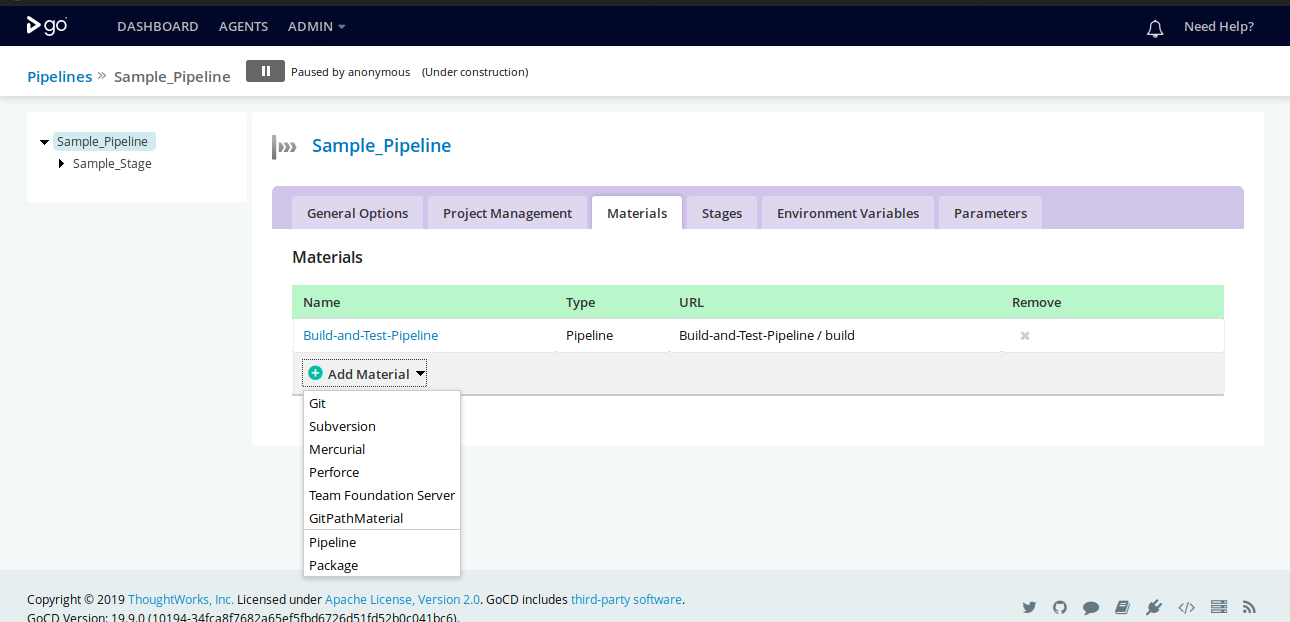
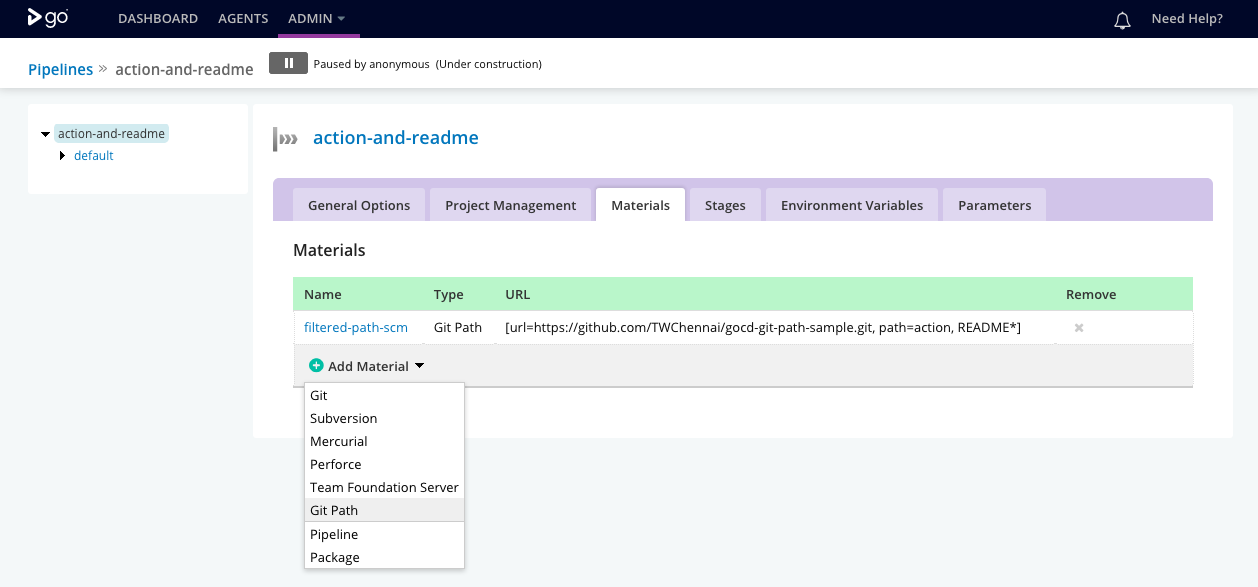
Update `README` to reflect updates to plugin

diff --git a/README.md b/README.md
@@ -1,43 +1,122 @@
 # gocd-git-path-material-plugin
 
-GoCD plugin to introduce a material, that watches on a sub-directory of git repository a.k.a GoCD plugin to support for [Monorepos](https://developer.atlassian.com/blog/2015/10/monorepos-in-git/)
+[![Build Status](https://travis-ci.org/TWChennai/gocd-git-path-material-plugin.svg?branch=master)](https://travis-ci.org/TWChennai/gocd-git-path-material-plugin) ![License](https://img.shields.io/github/license/TWChennai/gocd-git-path-material-plugin)
 
-[![Build Status](https://travis-ci.org/TWChennai/gocd-git-path-material-plugin.svg?branch=master)](https://travis-ci.org/TWChennai/gocd-git-path-material-plugin)
+GoCD plugin to introduce a material that watches on a sub-directory of a Git repository.
+ 
+This is the missing GoCD support for [mono-repos](https://developer.atlassian.com/blog/2015/10/monorepos-in-git/)
 
-![gocd-git-path-material-plugin-add](docs/add-material.png)
+## What you can do with this plugin
+...that you can't do with the built-in Git material:
+* Support **mono-repos** without excessive triggering from a material that watches the entire repository
+* Implement **side-channels** into deployment pipelines for source-controlled environment configuration
+* Version control deployment configuration in the same repository as your code without rebuilding software every time
+  unrelated configuration is changed; supporting [twelve-factor](https://12factor.net/) apps
+* **Fix fan-in** - materials that monitor different paths in a repo are considered separate when [evaluating fan-in](https://docs.gocd.org/current/advanced_usage/fan_in.html) conditions
+* Provide **clean, filtered change logs** for pipeline/VSM comparisons showing only changes on the monitored paths within a repository
 
-![gocd-git-path-material-plugin-popup](docs/gitmaterial-popup.png)
+This plugin is intended as 
+* a **drop-in replacement** for the built-in GoCD Git material
+* replaces the problematic use of **whitelists** and **blacklists**
+  * whitelists and blacklists in GoCD tend to prevent/block fan-in because materials with different whitelists are still considered equivalent
+  by the fan-in algorithm. This makes them unsuitable for use as environment side-channels or dealing with mono-repos.
 
-### Installation
+### Advanced features
 
-* Download from [releases](https://github.com/chadlwilson/gocd-git-path-material-plugin/releases/)
+*Wildcard whitelists* - When the git command line is available on your agents; you can also use wildcards like `config/*/prod.yaml`. Anything that works with `git log` will work here.
+
+*Shallow clones* - supported in the same way as the GoCD Git Material supports them
+
+## Installation
+
+**Manually**
+* Download from [releases](https://github.com/TWChennai/gocd-git-path-material-plugin/releases/)
 * Follow the installation instructions [here](https://docs.go.cd/current/extension_points/plugin_user_guide.html#installing-and-uninstalling-of-plugins)
 
-### Usage
+**Dockerized GoCD automatic plugin install**
+* Find [release](https://github.com/TWChennai/gocd-git-path-material-plugin/releases/) URL
+* Set environment variable like the below; replacing `${VERSION}`
+    ```
+    GOCD_PLUGIN_INSTALL_gocd-git-path-material-plugin=https://github.com/TWChennai/gocd-git-path-material-plugin/releases/download/v${VERSION}/gocd-git-path-material-plugin-${VERSION}.jar
+    ```
 
-### Via UI
-
-**Known bug/feature:** After plugin installation, you will *not* be able to see *Git Path* material as a material type
-when creating a new pipeline. So add a dummy git material, then edit to add a new *Git Path* material and remove the old one. 
-
+## Usage
 
 ### Via pipelines-as-code
 
-For GoCD `>= 19.2.0` via pluggable materials configuration with [gocd-yaml-config-plugin](https://github.com/tomzo/gocd-yaml-config-plugin#pluggable)
+From GoCD `19.2.0` onwards you can use via pluggable material configuration with [gocd-yaml-config-plugin](https://github.com/tomzo/gocd-yaml-config-plugin#pluggable)
 ```yaml
 materials:
   path-filtered-material:
     plugin_configuration:
       id: git-path
     options:
-      url: https://github.com/chadlwilson/gocd-git-path-sample.git
+      url: https://github.com/TWChennai/gocd-git-path-sample.git
       username: username # optional
       path: path1, path2/subpath
       shallow_clone: false # optional
     destination: destDir
 ```
 
-You can see a sample [here](samples/sample-pipelines.gocd.yaml).
+### Via UI wizards
+
+Available from GoCD `19.8.0` onwards.
+
+![gocd-git-path-material-create-pipeline-wizard](docs/create-pipeline-wizard.png)
+
+![gocd-git-path-material-add-scm-1](docs/add-scm-1.png)
+![gocd-git-path-material-add-scm-2](docs/add-scm-2.png)
+
+### Via UI advanced configuration
+
+Available on all compatible versions of GoCD.
+
+![gocd-git-path-material-plugin-add](docs/add-material.png)
+
+![gocd-git-path-material-plugin-popup](docs/gitmaterial-popup.png)
+
+You can see a sample [here](https://github.com/TWChennai/gocd-git-path-sample/sample-pipelines.gocd.yaml).
+
+### Visualising changes
+
+VSM view
+![gocd-git-path-material-plugin-view-vsm](docs/view-vsm.png)
+
+View changes grouped by material
+![gocd-git-path-material-plugin-view-comparison](docs/view-comparison.png)
+
+### Migration from v1 to v2
+
+v2 is a major overhaul of the plugin, and prefers the use of the `git` command line to the previously preferred `jgit`.
+This makes the plugin consistent with more recent GoCD server & agent Docker releases, and improves ability to support
+standard git features such as shallow and no-checkout clones and wildcard matches in paths.
+
+As a result the plugin ID has changed between the two versions.
+
+| v1 plugin id      | v2+ plugin id |
+| ----------------- | ------------- |
+| `GitPathMaterial` | `git-path`    |
+
+* If you use the [gocd-yaml-config-plugin](https://github.com/tomzo/gocd-yaml-config-plugin#pluggable) to 
+configure your pipelines as code; you can update the id per the above example.
+* If you configure your pipelines via the UI, you will need to add new materials and remove the old ones one-by-one.
+
+### Known issues
+
+*Creating new pipelines via UI on pre `19.8.0` GoCD versions*
+
+You will *not* be able to see *Git Path* material as a material type when creating a new pipeline. 
+Add a dummy git material, then edit to add a new *Git Path* material and remove the old one. This problem
+has been resolved in newer GoCD versions via the pipeline creation wizard.
+
+*Stale data in agent repository clones*
+
+This plugin uses Git commands to filter the history and determine the most recent revision that matches the
+monitored paths. This means that changes that are not monitored in your paths may be "stale". The plugin does
+not `rm` un-monitored paths from a clone; meaning your build task could accidentally be depending on files in the
+repository that are out-of-date.
+
+Be careful with your repository structure to keep your monitored path expressions simple.
 
 ### Contributing
 
@@ -60,16 +139,29 @@ Execute the following gradle task to start the go-server
 
 You can now access the [go-server via port 8153](http://localhost:8153)
 
-#### reload
+##### reload
 
 If you like to reload the go-server with new build run,
 ```bash
 ./gradlew clean restartGoCd
 ```
 
-#### stop
+##### stop
 
 You can stop the running docker instance with the following gradle task
 ```bash
 ./gradlew clean stopGoCd
 ```
+
+#### Releasing
+
+Released via the [gocd-plugin-gradle-task-helpers](https://github.com/gocd/gocd-plugin-gradle-task-helpers) onto
+GitHub.
+
+* Check the`gocdPlugin.pluginVersion` version in `build.gradle` and bump if necessary
+* Tag and publish
+    ```bash
+    ./gradlew githubRelease                       
+    PRERELEASE=no ./gradlew githubRelease
+    ```
+* Edit the release description on `GitHub` if necessary.
